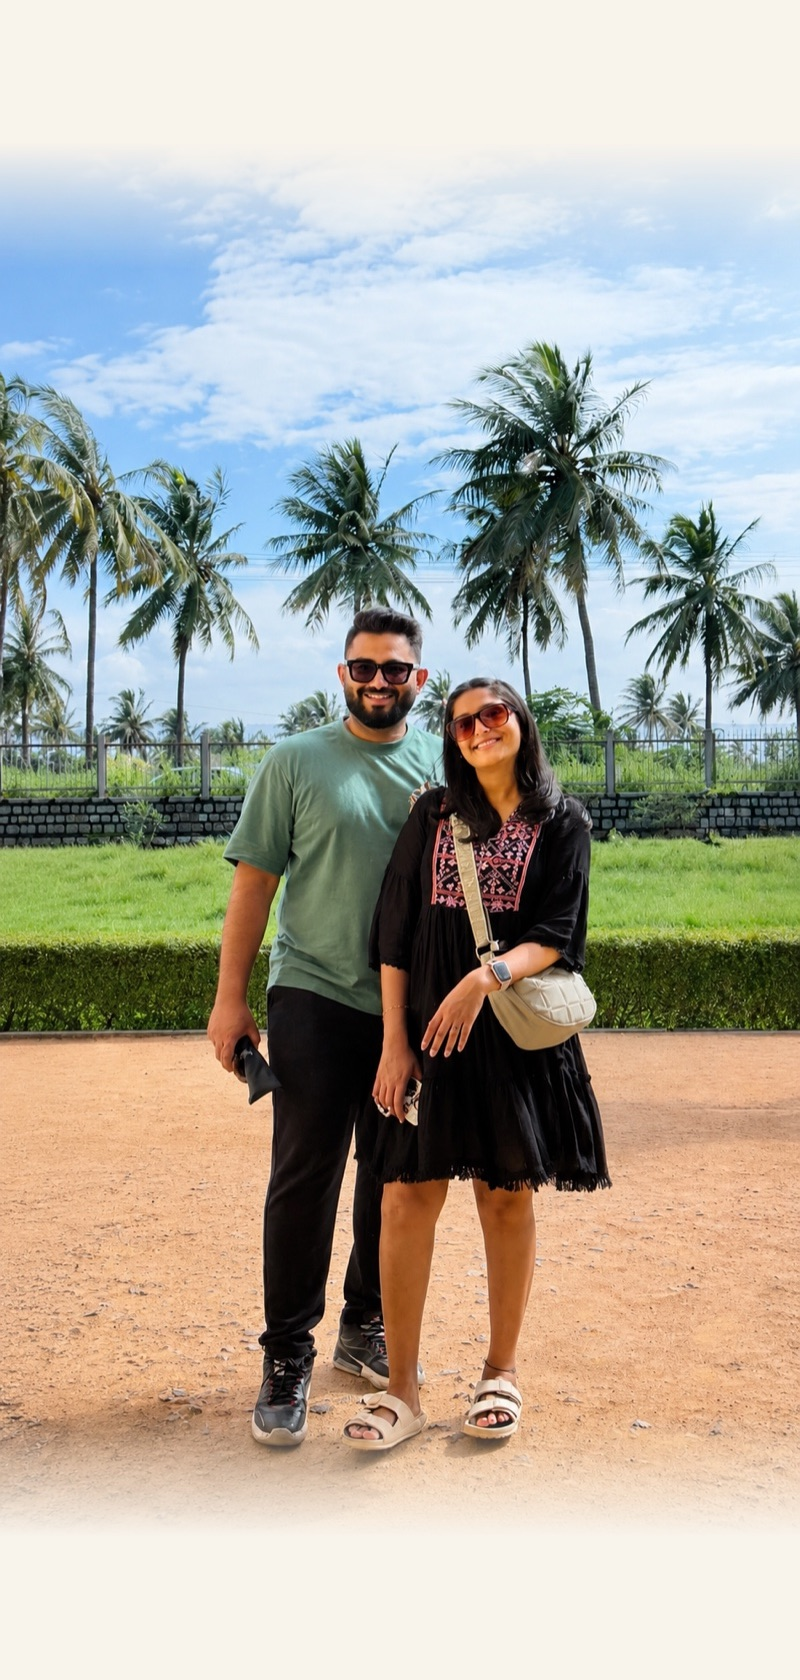
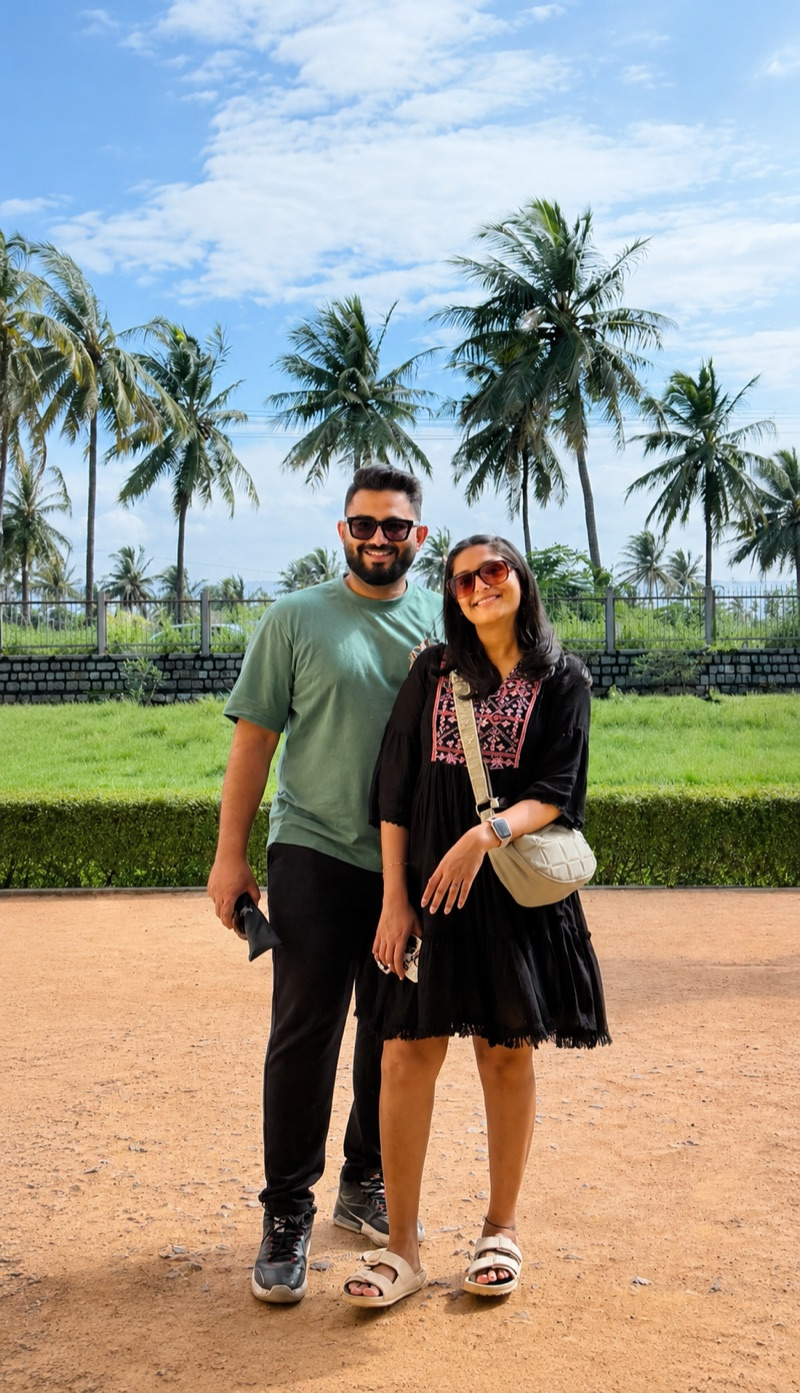
Let the backdrop fill the screen
The cream field it was laid on was showing as pale bands at the head and
foot. That padding was there to spare a wide photograph from a hard crop,
and this one does not need it — at 0.57 against a phone's 0.46 it loses
about a fifth of its width to cover and keeps everything that matters.

diff --git a/src/routes/__root.tsx b/src/routes/__root.tsx
@@ -180,7 +180,7 @@ function RootComponent() {
             src={backdrop}
             alt=""
             width={800}
-            height={1680}
+            height={1393}
             className="h-full w-full object-cover object-center"
             style={{ opacity: 0.34 }}
           />

diff --git a/src/components/wedding/Envelope.tsx b/src/components/wedding/Envelope.tsx
@@ -66,7 +66,7 @@ export function Envelope({ onOpened }: { onOpened: () => void }) {
         alt=""
         aria-hidden="true"
         width={800}
-        height={1680}
+        height={1393}
         className="absolute inset-0 h-full w-full object-cover object-center"
       />
 
